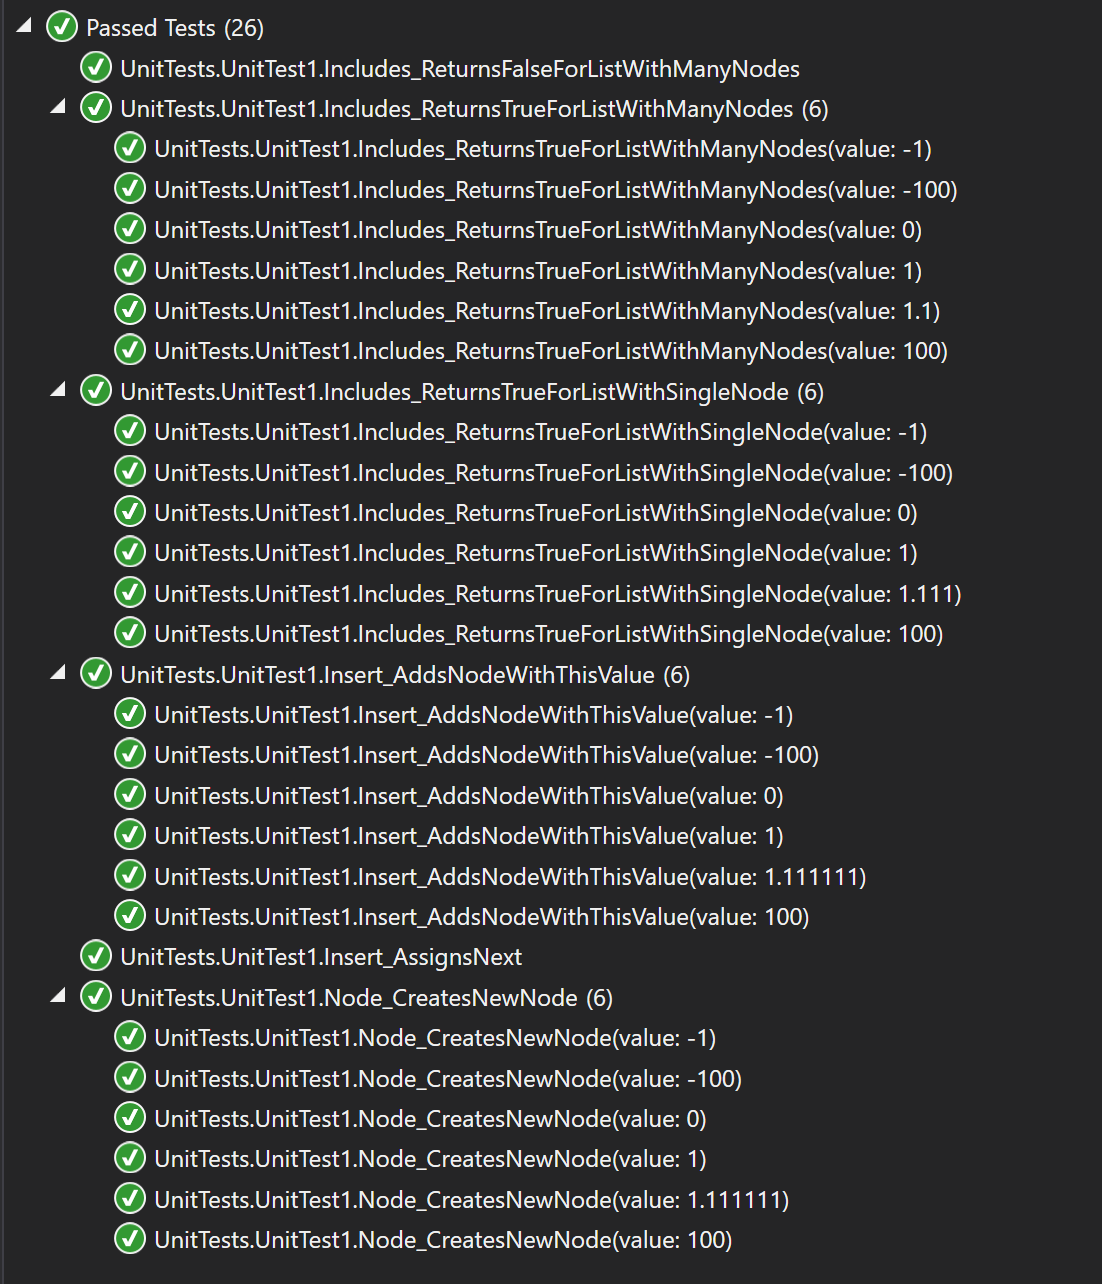
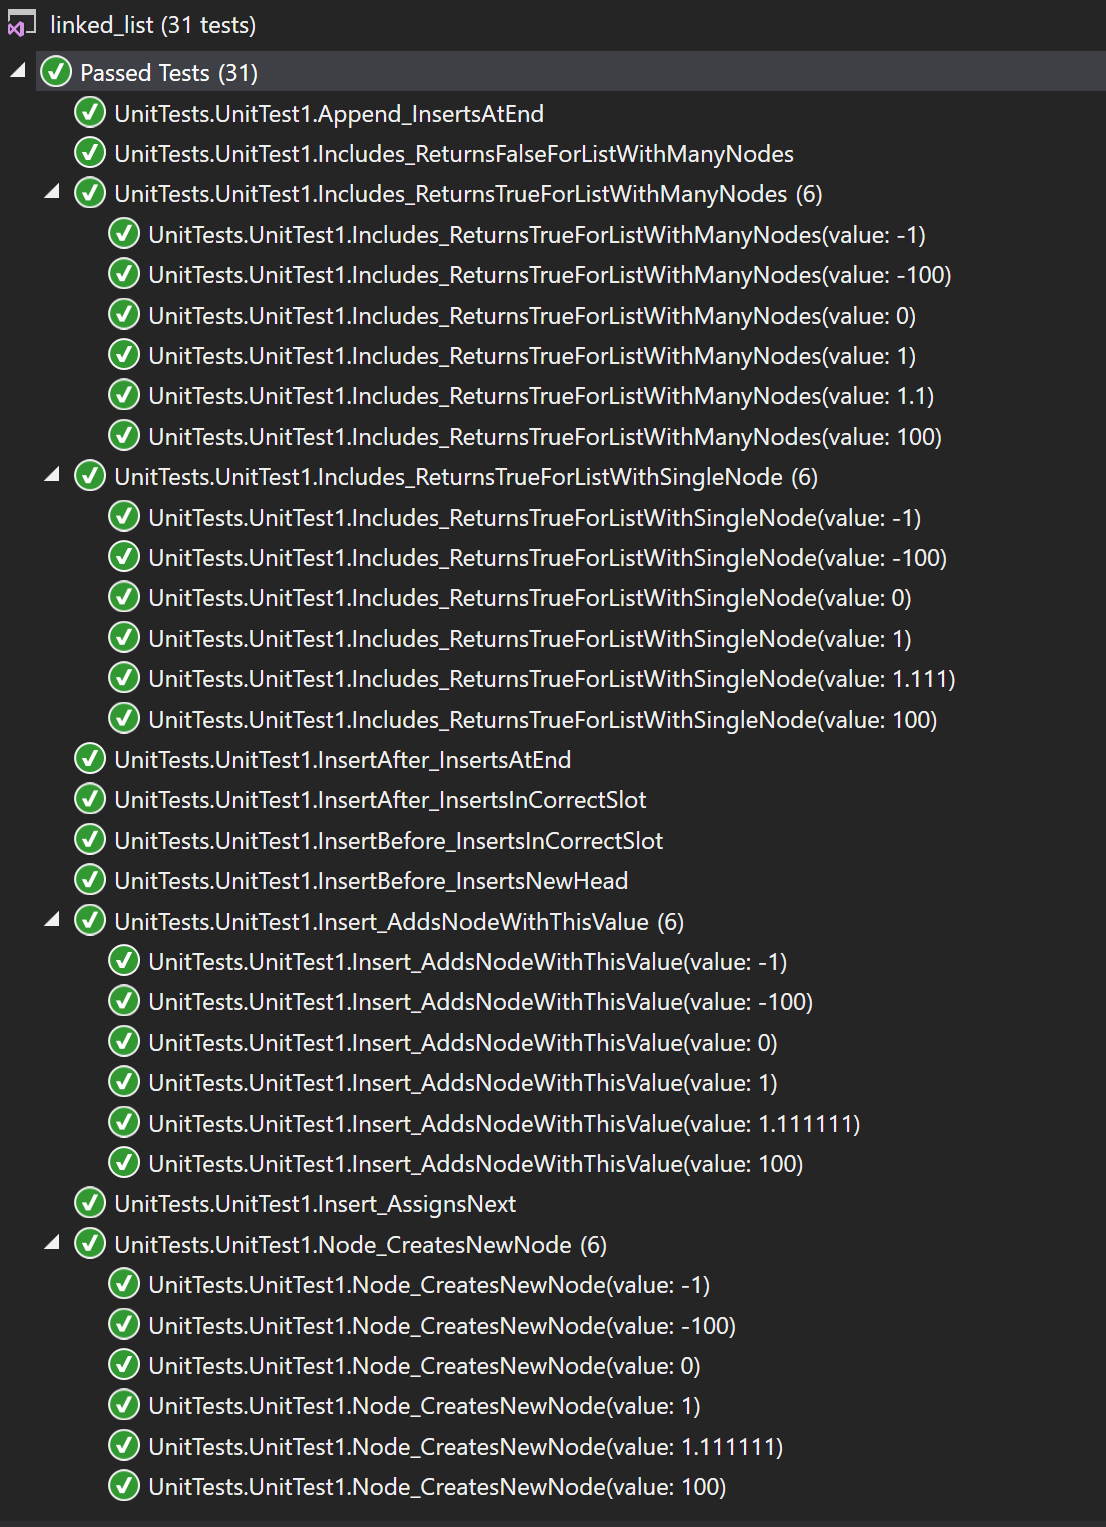
added Append, InsertBefore, InsertAfter, and associated unit tests; updated docs

Changed region(s): [[0.0, 0.0, 1.0, 0.9969], [0.7096, 0.5607, 0.7405, 0.5919]]

diff --git a/linked_list/linked_list/Classes/LinkedList.cs b/linked_list/linked_list/Classes/LinkedList.cs
@@ -37,7 +37,6 @@ namespace linked_list.Classes
                 {
                     if (Current.Value == value)
                     {
-                        Print();
                         return true;
                     }
                     Current = Current.Next;
@@ -46,7 +45,6 @@ namespace linked_list.Classes
                 {
                     return true;
                 }
-                Print();
             }
             return false;
         }
@@ -75,5 +73,85 @@ namespace linked_list.Classes
             }
         }
 
+        /// <summary>
+        /// Creates a new node with specified value and inserts it at the end of a linked list
+        /// </summary>
+        /// <param name="value"> value of new node </param>
+        public void Append(int value)
+        {
+            Current = Head;
+
+            while (Current.Next != null)
+            {
+                Current = Current.Next;
+            }
+
+            Node node = new Node(value);
+
+            Current.Next = node;
+
+        }
+
+        /// <summary>
+        /// Creates a new node with specified value (newValue) and inserts it into a linked list before the first existing node that matches specified value (value)
+        /// </summary>
+        /// <param name="value"> value of existing node to park new node in front of </param>
+        /// <param name="newValue"> value of new node to be created and inserted into list </param>
+        public void InsertBefore(int value, int newValue)
+        {
+            Current = Head;
+
+            if (Current.Value == value)
+            {
+                Insert(newValue);
+                return;
+            }
+
+            while (Current.Next != null)
+            {
+                if (Current.Next.Value == value)
+                {
+                    Node node = new Node(newValue);
+                    node.Next = Current.Next;
+                    Current.Next = node;
+                    return;
+                }
+
+                Current = Current.Next;
+            }
+        }
+
+        /// <summary>
+        /// Creates a new node with specified value (newValue) and inserts it into a linked list before the first existing node that matches specified value (value)
+        /// </summary>
+        /// <param name="value"> value of existing node to park new node in front of </param>
+        /// <param name="newValue"> value of new node to be created and inserted into list </param>
+        public void InsertAfter(int value, int newValue)
+        {
+            Current = Head;
+
+            if (Current.Value == value)
+            {
+                Insert(newValue);
+                return;
+            }
+
+            while (Current.Next != null)
+            {
+                if (Current.Next.Value == value)
+                {
+                    Node node = new Node(newValue);
+                    Current = Current.Next;
+                    node.Next = Current.Next;
+                    Current.Next = node;
+                    return;
+                }
+
+                else
+                {
+                    Current = Current.Next;
+                }
+            }
+        }
     }
 }

diff --git a/linked_list/UnitTests/UnitTest1.cs b/linked_list/UnitTests/UnitTest1.cs
@@ -109,5 +109,86 @@ namespace UnitTests
             }
             Assert.False(testList.Includes(88));
         }
+
+        /// <summary>
+        /// Verifies that InsertBefore inserts a new node in the correct location
+        /// </summary>
+        [Fact]
+        public void InsertBefore_InsertsInCorrectSlot()
+        {
+            LinkedList testList = new LinkedList();
+            int[] testPoints = new int[] { 0, 1, 100, -1, -100 };
+            foreach (int point in testPoints)
+            {
+                testList.Insert(point);
+            }
+            testList.InsertBefore(1, 88);
+            Assert.Equal(88,testList.Current.Next.Value);
+        }
+
+        /// <summary>
+        /// Verifies that InsertBefore inserts a new node at Head location
+        /// </summary>
+        [Fact]
+        public void InsertBefore_InsertsNewHead()
+        {
+            LinkedList testList = new LinkedList();
+            int[] testPoints = new int[] { 0, 1, 100, -1, -100 };
+            foreach (int point in testPoints)
+            {
+                testList.Insert(point);
+            }
+            testList.InsertBefore(-100, 88);
+            Assert.Equal(88, testList.Head.Value);
+        }
+        
+        /// <summary>
+        /// Verifies that InsertAfter inserts a new node in the correct location
+        /// </summary>
+        [Fact]
+        public void InsertAfter_InsertsInCorrectSlot()
+        {
+            LinkedList testList = new LinkedList();
+            int[] testPoints = new int[] { 0, 1, 100, -1, -100 };
+            foreach (int point in testPoints)
+            {
+                testList.Insert(point);
+            }
+            testList.InsertAfter(1, 88);
+            Assert.Equal(88, testList.Current.Next.Value);
+        }
+
+        /// <summary>
+        /// Verifies that InsertAfter inserts a new node in the correct location
+        /// </summary>
+        [Fact]
+        public void InsertAfter_InsertsAtEnd()
+        {
+            LinkedList testList = new LinkedList();
+            int[] testPoints = new int[] { 0, 1, 100, -1, -100 };
+            foreach (int point in testPoints)
+            {
+                testList.Insert(point);
+            }
+            testList.InsertAfter(0, 88);
+            Assert.Equal(88, testList.Current.Next.Value);
+        }
+
+        /// <summary>
+        /// Verifies that Append inserts a new node at the end of the list
+        /// </summary>
+        [Fact]
+        public void Append_InsertsAtEnd()
+        {
+            LinkedList testList = new LinkedList();
+            int[] testPoints = new int[] { 0, 1, 100, -1, -100 };
+            foreach (int point in testPoints)
+            {
+                testList.Insert(point);
+            }
+            testList.Append(88);
+            testList.Current = testList.Current.Next;
+            Assert.Equal(88, testList.Current.Value);
+        }
     }
 }

diff --git a/linked_list/linked_list/Program.cs b/linked_list/linked_list/Program.cs
@@ -7,11 +7,31 @@ namespace linked_list
     {
         static void Main(string[] args)
         {
-            LinkedList list = new LinkedList();
+            TestTheList();
+        }
+
+        static void TestTheList()
+        {
+            //LinkedList list = new LinkedList();
             //list.Insert(1);
             //list.Insert(2);
             //list.Insert(3);
-            list.Print();
+            //list.InsertAfter(2, 999);
+            //list.InsertBefore(2, 888);
+            //list.Print();
+
+            LinkedList testList = new LinkedList();
+            int[] testPoints = new int[] { 0, 1, 100, -1, -100 };
+            foreach (int point in testPoints)
+            {
+                testList.Insert(point);
+            }
+            testList.Append(88);
+            while (testList.Current.Next != null)
+            {
+                testList.Current = testList.Current.Next;
+            }
+            testList.Print();
         }
     }
 }

diff --git a/linked_list/README.md b/linked_list/README.md
@@ -14,12 +14,16 @@ Create a LinkedList class with the following properties and methods:
  - Current: Node object that references the node currently selected for work/manipulation/etc.
  - Insert (method): Instantiates and inserts a new node (of specified value) into the list, and points 'head' at it.
  - Includes (method): Checks list for the first node that contains the passed-in value - returns 'true'. If none, returns 'false'.
- - Print (method): Console prints the value of the passed-in nodel
+ - Print (method): Console prints the values of all nodes in the list
+ - InsertBefore (method): Instantiates a new node (of specified value) and inserts into the list BEFORE an existing node (of other specified value). If no match exists, no node is inserted.
+ - InsertAfter (method): Same as InsertBefore, except it inserts the new node AFTER the existing node (or none if no match);
   *** default constructor only - no custom constructor defined ***
 
 ## Approach & Efficiency
-LinkedList.Insert adds a new node, points it to the previous 'Head' as 'Next', and makes it the new 'Head' in just 3 steps. Time complexity is O(1) (since it performs this set of operations just once regardless of the size of the linked list).
-LinkedList.Includes starts at 'Head' and compares the passed-in value to each node in turn. Time complexity is O(n) (since - at worst, when the matching value is the tail node - it performs this operation for every node in the linked list).
+LinkedList.Insert adds a new node, points it to the previous 'Head' as 'Next', and makes it the new 'Head' in just 3 steps. Time complexity is O(1) (since it performs this set of operations just once regardless of the size of the linked list). Space complexity is O(1) since only a fixed amount of space is allocated (regardless of list size).
+LinkedList.Includes starts at 'Head' and compares the passed-in value to each node in turn. Time complexity is O(n) (since - at worst, when the matching value is the tail node - it performs this operation for every node in the linked list). Space complexity is O(1) since only a fixed amount of space is allocated (regardless of list size).
+LinkedList.Print visits each node once, so time complexity is O(n). No new memory is allocated.
+LinkedList.InsertBefore and .InsertAfter have same time and space complexity as .Includes.
 
 ## Solution
 This challenge included a set of unit tests verifying that:
